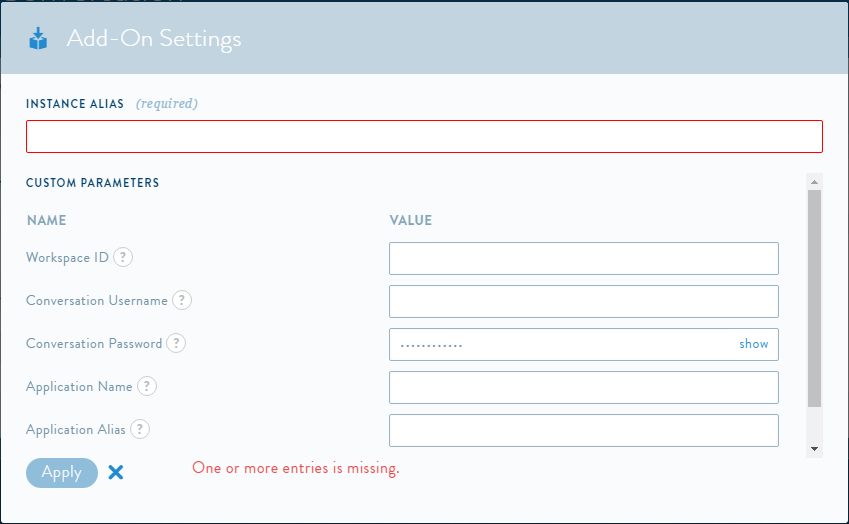
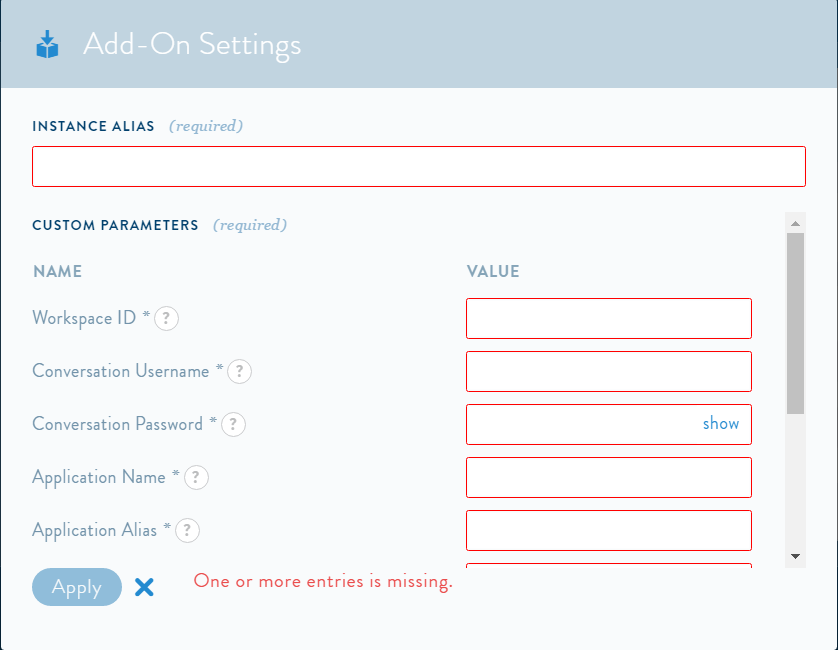
updated to user dev credentials instead of SOC

diff --git a/src/WatsonConversationAddon/WatsonConversationAddon.cs b/src/WatsonConversationAddon/WatsonConversationAddon.cs
@@ -39,7 +39,7 @@ namespace Apprenda.WatsonConversation.Addon
 
             try
             {
-                var token = authenticate(manifest.ProvisioningUsername, manifest.ProvisioningPassword, devOptions.tenant);
+                var token = authenticate(devOptions.apprendausername, devOptions.apprendapassword, devOptions.apprendatenant);
                 int status = deleteApp(token, devOptions.alias);
                 if (status == 204)
                 {
@@ -84,7 +84,7 @@ namespace Apprenda.WatsonConversation.Addon
 
             try
             {
-                var token = authenticate(manifest.ProvisioningUsername, manifest.ProvisioningPassword, devOptions.tenant);
+                var token = authenticate(devOptions.apprendausername, devOptions.apprendapassword, devOptions.apprendatenant);
                 createApp(token, appname, appalias, "NodeJS API Server for Watson Conversation");
                 var archivePath = createArchive(devOptions.workspace, devOptions.conversationusername, devOptions.conversationpassword);
                 setArchive(token, appalias, valias, archivePath);
@@ -119,7 +119,7 @@ namespace Apprenda.WatsonConversation.Addon
 
             try
             {
-                var token = authenticate(manifest.ProvisioningUsername, manifest.ProvisioningPassword, devOptions.tenant);
+                var token = authenticate(devOptions.apprendausername, devOptions.apprendapassword, devOptions.apprendatenant);
                 int statusCode = getApp(token, appalias);
                 if (statusCode!=200)
                 {

diff --git a/src/WatsonConversationAddon/WCDeveloperOptions.cs b/src/WatsonConversationAddon/WCDeveloperOptions.cs
@@ -10,7 +10,6 @@ namespace Apprenda.WatsonConversation.Addon
 {
     class WCDeveloperOptions
     {
-        public string tenant { get; set; }
         public string workspace { get; set; }
         public string conversationusername { get; set; }
         public string conversationpassword { get; set; }
@@ -20,6 +19,10 @@ namespace Apprenda.WatsonConversation.Addon
         public string developeralias { get; set; }
         public string developerid { get; set; }
         public string instancealias { get; set; }
+        public string apprendausername { get; set; }
+        public string apprendapassword { get; set; }
+        public string apprendatenant { get; set; }
+
 
         private static readonly ILogger log = LogManager.Instance().GetLogger(typeof(WatsonConversationAddon));
 
